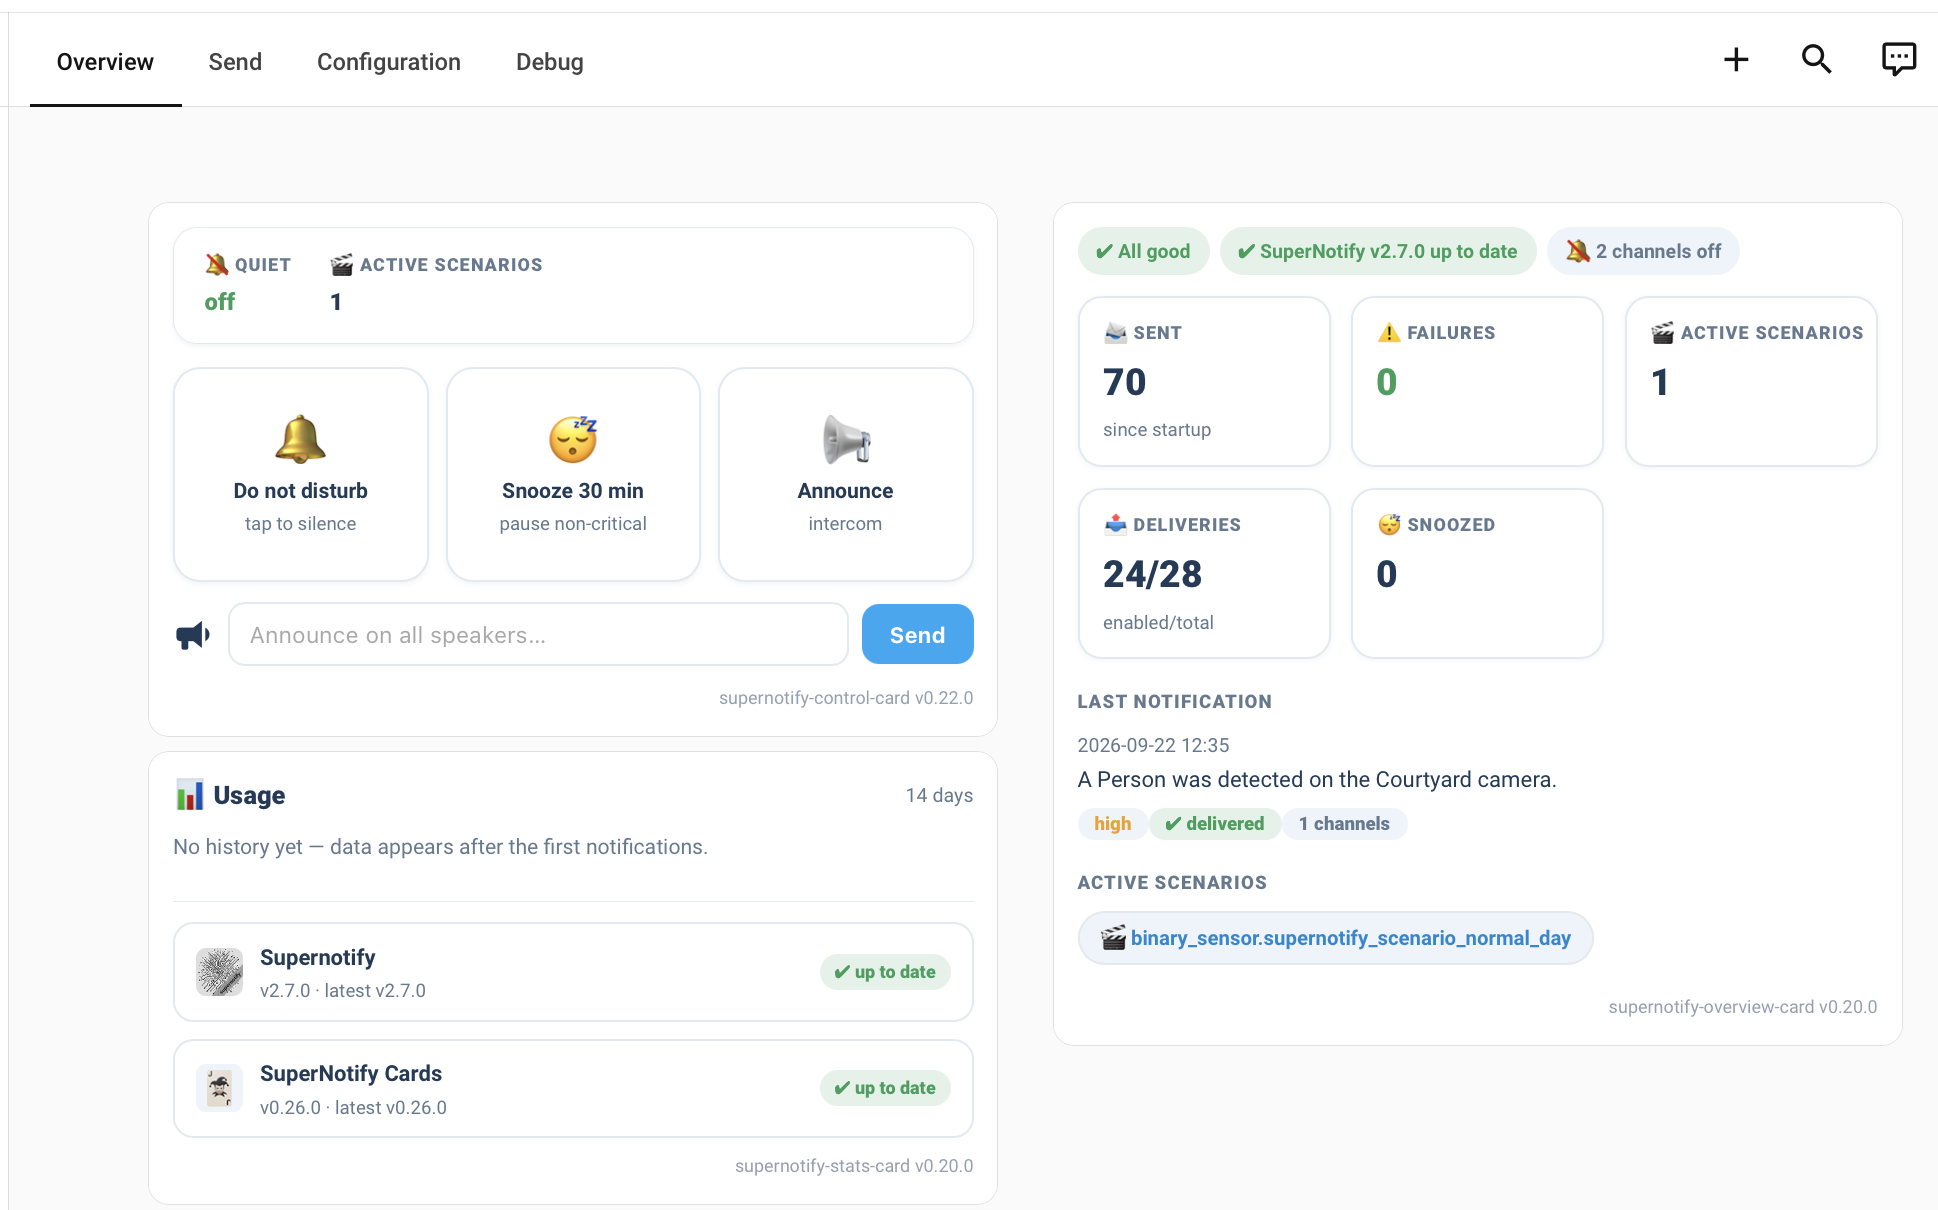
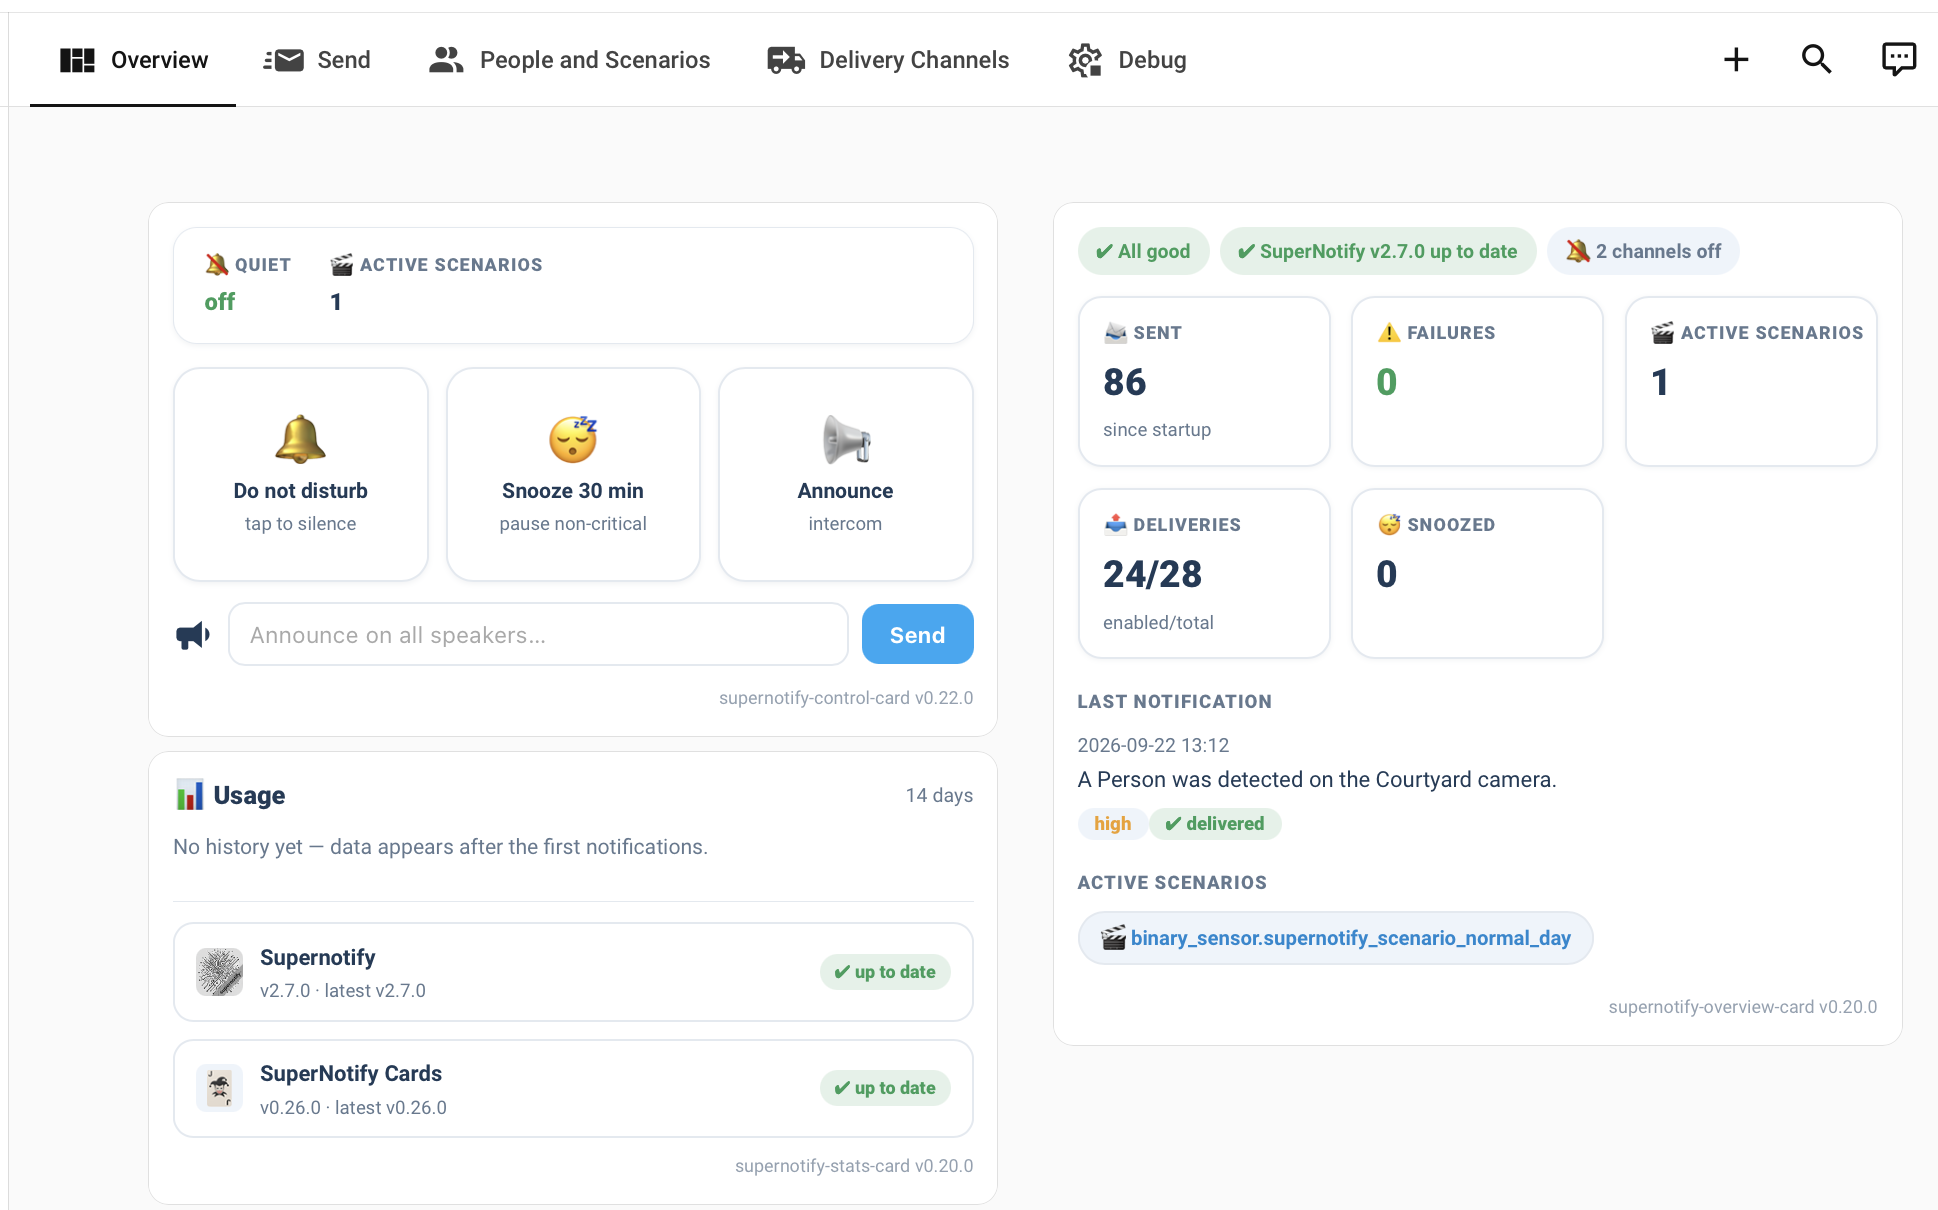
recipe

diff --git a/README.md b/README.md
@@ -22,25 +22,21 @@
 
 **Unified Notification for Home Assistant**
 
-### MAJOR CHANGE v2
-
->> Support for Python 3.13 and versions of Home Assistant prior to 2026.3.0 (the first to support v3.14 only) will be dropped when Home Assistant 2026.10 is released. Supernotify will continue to be tested against older compatible versions of Home Assistant.
+### v2 MAJOR CHANGE - Set up from Home Assistant UI
 
 >> `2.0.0` of SuperNotify moves to a native Home Assistant UI configuration ('ConfigFlow'). If you have an existing simple configuration, everything will be migrated for you and there will be no YAML needed.
 
->> If you have an advanced configuration (deliveries, scenarios, cameras, persons, actions etc) then a *Repair* will be raised to move these to a new `supernotify.yaml` file and add an `include` statement to your `configuration.yaml`. Or you can choose to manually move the config out of `notify` block however you please.
-
->> In either case, nothing will be deleted or commented out, so it will be easy to revert the change. Remove the old config when you are comfortable the new version is working for you. This will also remove the `[homeassistant.components.notify] Failed to initialize notification service supernotify` warning from the log, which comes from the old notify implementation.
+>> A *Repair* will be raised to move any advanced configuration (deliveries, scenarios, cameras, persons, actions etc) to a new `supernotify:` section, which can be a `supernotify.yaml` file with an `include` statement to your `configuration.yaml` or however you choose to organize your configuration. Nothing will be deleted or commented out, so remove the old config when you are comfortable the new version is working for you, and this will also clear up warnings from the log about the older notification service.
 
 >> An alternative `supernotify.notify` action is now available that is much easier to configure from automations, and works identically to the existing actions.
 
-A **unified notification interface** on top of HomeAssistant's built in `notify` platform, to greatly simplify multiple notification channels and complex scenarios, including multi-channel notifications, conditional notifications, voice announcements, mobile actions, camera snapshots, chimes and template based HTML emails.
+A **unified notification interface** on top of HomeAssistant's `notify` platform, to greatly simplify notifying via multiple channels just the way you need it, including conditional notifications, voice announcements, mobile actions, camera snapshots, chimes, template based HTML emails, spooky Hallowe'en announcements and more.
 
 The goal - to make the **simplest possible notification** do as **many notifications as you need** with a **single call**, with  **no code**, **minimal configuration** and no need to understand the many quirks of different notification integrations.
 
-Start off with no YAML configuration and easily do [mobile push notifications to all your Home Assistant users](./recipes/simple_mobile_push.md), attach a camera snapshot to an e-mail, redirect [Frigate blueprint notifications to email](./recipes/frigate_emails.md), add a [Dashboard](./configuration/dashboard.md) or automatically cut down on repeated duplicate notifications.
+**No YAML is required** to get started and easily have [mobile push notifications to all your Home Assistant users](./recipes/simple_mobile_push.md), camera snapshots attached to e-mails, [Frigate blueprint notifications sent to email](./recipes/frigate_emails.md), add a [Dashboard](./configuration/dashboard.md) and cut out duplicate notifications.
 
-Use the [Supernotify Cards](https://github.com/lollox80/supernotify-cards) for elegant dashboard integration. And with advanced YAML configuration, the possibilities are endless.
+Use the [Supernotify Cards](https://github.com/lollox80/supernotify-cards) for elegant [dashboard](./configuration/dashboard.md) integration. And with advanced YAML configuration, the possibilities are endless.
 
 !!! tip inline end "Recipes"
     Get started quickly, or get inspired, with one of the [notification recipes](./recipes/index.md), including:
@@ -130,6 +126,8 @@ A lot can be done with the simple non-YAML configuration, including automation o
 - **Links** can be configured but not currently used.
 - YAML still required for Transport, Recipient, Action and additional custom Delivery
 - Versions of Home Assistant more than 6 major releases ( usually 6 months ) aren't tested against Supernotify
+  - It is tested against Python 3.13 and Home Assistant 2026.2.3 (the last to support v3.13 only), this will be dropped when Home Assistant 2026.10 is released.
+
 
 ##  Rhizomatics Open Source for Home Assistant
 

diff --git a/docs/recipes/notification_dashboard.md b/docs/recipes/notification_dashboard.md
@@ -1,0 +1,16 @@
+---
+tags:
+  - dashboard
+  - recipe
+  - ui
+  - lovelace
+title: Notification Dashboard
+description: Send out notification and control notifications from a Home Assistant Dashboard
+---
+# Recipe - Dashboard
+
+![Example](../assets/images/dashboard_overview.png)
+
+## Implementation
+
+See the example YAML and instructions at [Dashboard Configuration](../configuration/dashboard.md)
